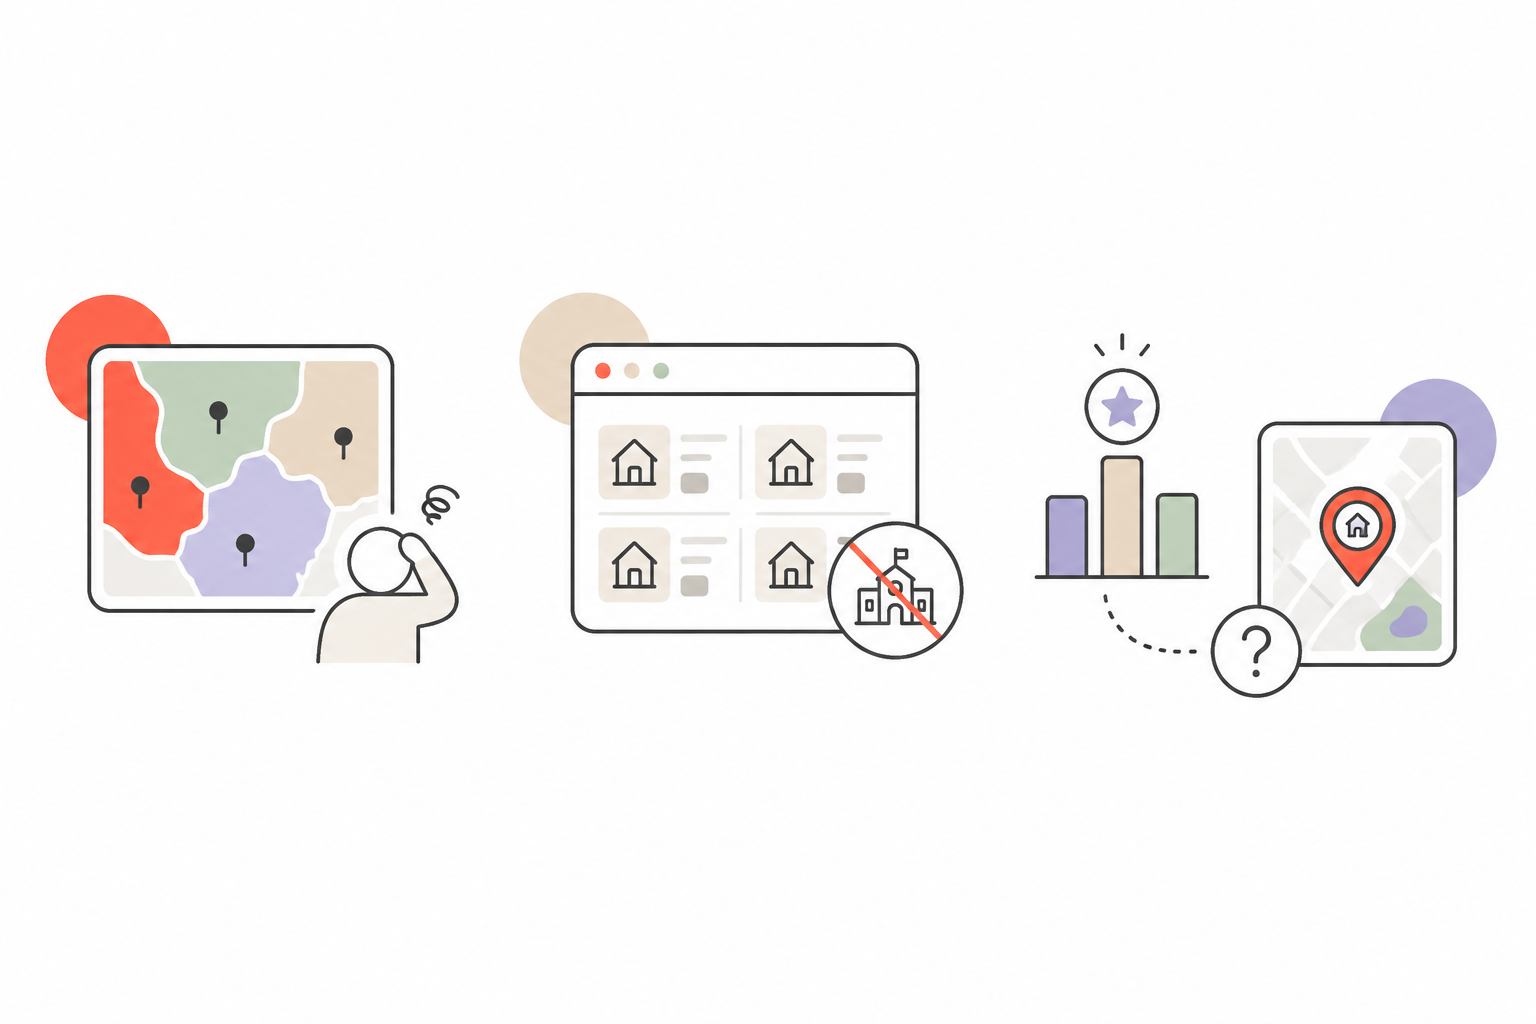
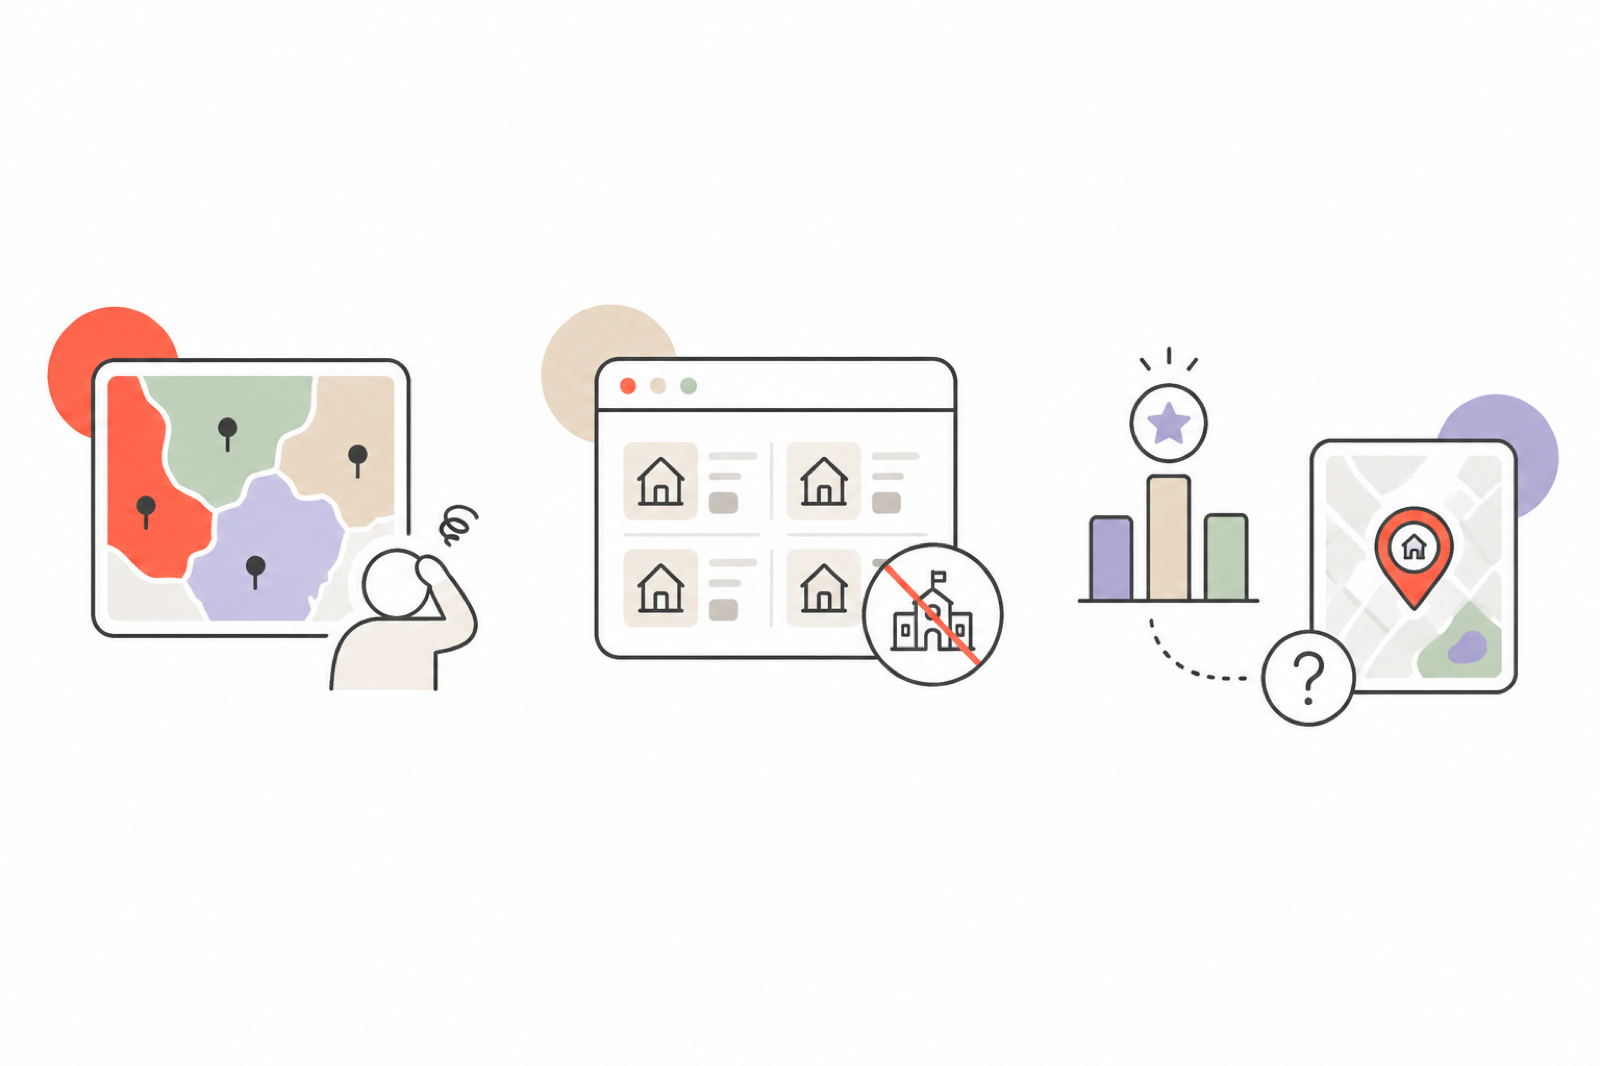
Changes to the design storytelling

diff --git a/about.html b/about.html
@@ -113,63 +113,82 @@
       <div class="about-section-head">
         <span class="idx-label">Explore my case studies</span>
       </div>
-      <div class="hcp-deck about-hcp-deck">
-        <div class="hcp-deck-cards">
+      <div class="about-cs-scroll">
+        <div class="about-cs-track">
 
-          <div class="hcp-slide pos-mid" data-href="telo-case-study.html">
+          <a class="about-cs-card" href="telo-case-study.html">
             <div class="hcp-slide-img">
               <img src="/1. Collapsed state.png" alt="Telo">
               <div class="hcp-img-overlay"><span class="hcp-glass-btn"><svg width="11" height="11" viewBox="0 0 24 24" fill="none" stroke="currentColor" stroke-width="2.5" stroke-linecap="round" stroke-linejoin="round"><path d="M5 12h14M12 5l7 7-7 7"/></svg>View case study</span></div>
             </div>
             <div class="hcp-slide-info">
-              <div class="hcp-slide-tags">
-                <span class="hcp-slide-tag">B2B SaaS</span>
-                <span class="hcp-slide-tag hcp-slide-tag--muted">2026</span>
-              </div>
+              <div class="hcp-slide-tags"><span class="hcp-slide-tag">B2B SaaS</span><span class="hcp-slide-tag hcp-slide-tag--muted">2026</span></div>
               <h3 class="hcp-slide-title">Telo</h3>
               <p class="hcp-slide-desc">Designed from scratch - a Slack-native alert that tells SaaS founders whether a metric drop is real and what to do next.</p>
             </div>
-          </div>
+          </a>
 
-          <div class="hcp-slide pos-front" data-href="schoolmap-case-study.html">
+          <a class="about-cs-card" href="schoolmap-case-study.html">
             <div class="hcp-slide-img">
               <img src="/Rent-by-school-preview.png" alt="Rent by School">
               <div class="hcp-img-overlay"><span class="hcp-glass-btn"><svg width="11" height="11" viewBox="0 0 24 24" fill="none" stroke="currentColor" stroke-width="2.5" stroke-linecap="round" stroke-linejoin="round"><path d="M5 12h14M12 5l7 7-7 7"/></svg>View case study</span></div>
             </div>
             <div class="hcp-slide-info">
-              <div class="hcp-slide-tags">
-                <span class="hcp-slide-tag">Civic Tech</span>
-                <span class="hcp-slide-tag hcp-slide-tag--muted">2026</span>
-              </div>
+              <div class="hcp-slide-tags"><span class="hcp-slide-tag">Civic Tech</span><span class="hcp-slide-tag hcp-slide-tag--muted">2026</span></div>
               <h3 class="hcp-slide-title">Rent by School</h3>
               <p class="hcp-slide-desc">Designed from scratch - a platform that helps Toronto families find rentals within their chosen school's catchment area faster.</p>
             </div>
-          </div>
+          </a>
 
-          <div class="hcp-slide pos-back" data-href="ambassador-case-study.html">
-            <div class="hcp-slide-img" style="background:#ffffff;display:flex;align-items:center;justify-content:center;padding:16px">
+          <a class="about-cs-card" href="ambassador-case-study.html">
+            <div class="hcp-slide-img" style="background:#fff;display:flex;align-items:center;justify-content:center;padding:16px">
               <img src="/The%20Ambassador%20Platform%20logo.svg" alt="The Ambassador Platform" style="max-width:180px;width:100%;height:auto;display:block">
               <div class="hcp-img-overlay"><span class="hcp-glass-btn"><svg width="11" height="11" viewBox="0 0 24 24" fill="none" stroke="currentColor" stroke-width="2.5" stroke-linecap="round" stroke-linejoin="round"><path d="M5 12h14M12 5l7 7-7 7"/></svg>View case study</span></div>
             </div>
             <div class="hcp-slide-info">
-              <div class="hcp-slide-tags">
-                <span class="hcp-slide-tag">EdTech</span>
-                <span class="hcp-slide-tag hcp-slide-tag--muted">2019–22</span>
-              </div>
+              <div class="hcp-slide-tags"><span class="hcp-slide-tag">EdTech</span><span class="hcp-slide-tag hcp-slide-tag--muted">2019–22</span></div>
               <h3 class="hcp-slide-title">The Ambassador Platform</h3>
               <p class="hcp-slide-desc">Owned the full design lifecycle of the platform that helps prospective students choose the right institution, lifting conversion from 8% to 14%.</p>
             </div>
-          </div>
+          </a>
 
-        </div>
+          <!-- duplicates for seamless loop -->
+          <a class="about-cs-card" href="telo-case-study.html" aria-hidden="true" tabindex="-1">
+            <div class="hcp-slide-img">
+              <img src="/1. Collapsed state.png" alt="" aria-hidden="true">
+              <div class="hcp-img-overlay"><span class="hcp-glass-btn"><svg width="11" height="11" viewBox="0 0 24 24" fill="none" stroke="currentColor" stroke-width="2.5" stroke-linecap="round" stroke-linejoin="round"><path d="M5 12h14M12 5l7 7-7 7"/></svg>View case study</span></div>
+            </div>
+            <div class="hcp-slide-info">
+              <div class="hcp-slide-tags"><span class="hcp-slide-tag">B2B SaaS</span><span class="hcp-slide-tag hcp-slide-tag--muted">2026</span></div>
+              <h3 class="hcp-slide-title">Telo</h3>
+              <p class="hcp-slide-desc">Designed from scratch - a Slack-native alert that tells SaaS founders whether a metric drop is real and what to do next.</p>
+            </div>
+          </a>
 
-        <div class="hcp-nav">
-          <button class="hcp-nav-btn" onclick="aboutHcpPrev()" aria-label="Previous case study">
-            <svg width="10" height="10" viewBox="0 0 24 24" fill="none" stroke="currentColor" stroke-width="2.5" stroke-linecap="round" stroke-linejoin="round"><path d="M15 18l-6-6 6-6"/></svg>
-          </button>
-          <button class="hcp-nav-btn" onclick="aboutHcpNext()" aria-label="Next case study">
-            <svg width="10" height="10" viewBox="0 0 24 24" fill="none" stroke="currentColor" stroke-width="2.5" stroke-linecap="round" stroke-linejoin="round"><path d="M9 18l6-6-6-6"/></svg>
-          </button>
+          <a class="about-cs-card" href="schoolmap-case-study.html" aria-hidden="true" tabindex="-1">
+            <div class="hcp-slide-img">
+              <img src="/Rent-by-school-preview.png" alt="" aria-hidden="true">
+              <div class="hcp-img-overlay"><span class="hcp-glass-btn"><svg width="11" height="11" viewBox="0 0 24 24" fill="none" stroke="currentColor" stroke-width="2.5" stroke-linecap="round" stroke-linejoin="round"><path d="M5 12h14M12 5l7 7-7 7"/></svg>View case study</span></div>
+            </div>
+            <div class="hcp-slide-info">
+              <div class="hcp-slide-tags"><span class="hcp-slide-tag">Civic Tech</span><span class="hcp-slide-tag hcp-slide-tag--muted">2026</span></div>
+              <h3 class="hcp-slide-title">Rent by School</h3>
+              <p class="hcp-slide-desc">Designed from scratch - a platform that helps Toronto families find rentals within their chosen school's catchment area faster.</p>
+            </div>
+          </a>
+
+          <a class="about-cs-card" href="ambassador-case-study.html" aria-hidden="true" tabindex="-1">
+            <div class="hcp-slide-img" style="background:#fff;display:flex;align-items:center;justify-content:center;padding:16px">
+              <img src="/The%20Ambassador%20Platform%20logo.svg" alt="" aria-hidden="true" style="max-width:180px;width:100%;height:auto;display:block">
+              <div class="hcp-img-overlay"><span class="hcp-glass-btn"><svg width="11" height="11" viewBox="0 0 24 24" fill="none" stroke="currentColor" stroke-width="2.5" stroke-linecap="round" stroke-linejoin="round"><path d="M5 12h14M12 5l7 7-7 7"/></svg>View case study</span></div>
+            </div>
+            <div class="hcp-slide-info">
+              <div class="hcp-slide-tags"><span class="hcp-slide-tag">EdTech</span><span class="hcp-slide-tag hcp-slide-tag--muted">2019–22</span></div>
+              <h3 class="hcp-slide-title">The Ambassador Platform</h3>
+              <p class="hcp-slide-desc">Owned the full design lifecycle of the platform that helps prospective students choose the right institution, lifting conversion from 8% to 14%.</p>
+            </div>
+          </a>
+
         </div>
       </div>
     </section>
@@ -300,33 +319,6 @@
       track.style.animation='none';
       track.offsetHeight;
       track.style.animation='';
-    });
-  });
-})();
-// About page case study deck
-(function(){
-  var slides = Array.from(document.querySelectorAll('.about-hcp-deck .hcp-slide'));
-  if(!slides.length) return;
-  var pos = ['pos-front','pos-mid','pos-back'];
-  var order = [0,1,2];
-
-  function shuffle(dir){
-    slides.forEach(function(s,i){ s.classList.remove(pos[order[i]]); });
-    order = order.map(function(p){ return dir === -1 ? (p + 1) % 3 : (p + 2) % 3; });
-    slides.forEach(function(s,i){ s.classList.add(pos[order[i]]); });
-  }
-  window.aboutHcpNext = function(){ shuffle(1); };
-  window.aboutHcpPrev = function(){ shuffle(-1); };
-
-  var deck = document.querySelector('.about-hcp-deck');
-  var timer = setInterval(function(){ shuffle(1); }, 3500);
-  deck.addEventListener('mouseenter', function(){ clearInterval(timer); });
-  deck.addEventListener('mouseleave', function(){ timer = setInterval(function(){ shuffle(1); }, 3500); });
-
-  slides.forEach(function(s){
-    s.addEventListener('click', function(){
-      if(!s.classList.contains('pos-front')) return;
-      window.location.href = s.dataset.href;
     });
   });
 })();

diff --git a/schoolmap-case-study.html b/schoolmap-case-study.html
@@ -604,23 +604,6 @@ footer{padding:22px 48px;display:flex;justify-content:space-between;align-items:
     <div class="eyebrow"><span class="n">3</span> The user</div>
     <h2>The relocating parent,<br><em>not the local.</em></h2>
 
-    <div style="background:#F5F5F5;border-radius:14px;padding:28px 32px;margin-bottom:36px;max-width:720px">
-      <div style="font-size:0.75rem;letter-spacing:.1em;text-transform:uppercase;color:var(--accent);font-weight:600;margin-bottom:16px">Executive Summary - The User</div>
-      <div style="display:flex;flex-direction:column;gap:14px">
-        <div style="display:flex;gap:12px">
-          <span style="font-size:0.75rem;font-weight:600;color:#3F3F47;text-transform:uppercase;letter-spacing:.08em;min-width:90px;padding-top:2px">Profile</span>
-          <p style="font-size:1rem;color:#71717C;margin:0;line-height:1.6">Michelle, 34 - relocating internationally with one school-age child. Time-poor, unfamiliar with Toronto's geography, high-stakes decision.</p>
-        </div>
-        <div style="display:flex;gap:12px">
-          <span style="font-size:0.75rem;font-weight:600;color:#3F3F47;text-transform:uppercase;letter-spacing:.08em;min-width:90px;padding-top:2px">Primary Need</span>
-          <p style="font-size:1rem;color:#71717C;margin:0;line-height:1.6">Find a rental inside the catchment of a high-quality Toronto school before signing a lease.</p>
-        </div>
-        <div style="border-top:1px solid var(--line);padding-top:14px;display:flex;gap:12px">
-          <span style="font-size:0.75rem;font-weight:600;color:#3F3F47;text-transform:uppercase;letter-spacing:.08em;min-width:90px;padding-top:2px">Key Driver</span>
-          <p style="font-size:1rem;color:#71717C;margin:0;line-height:1.6"><strong style="color:#3F3F47">School selection precedes</strong> neighbourhood preference and property features. Where, then what.</p>
-        </div>
-      </div>
-    </div>
     <div class="cards-2" style="margin-top:32px">
       <div class="info-card">
         <div class="info-card-label">Who they are</div>
@@ -686,7 +669,7 @@ footer{padding:22px 48px;display:flex;justify-content:space-between;align-items:
       </div>
     </div>
 
-    <p style="max-width:680px;margin-top:32px">After a quick chat with several parents I heard that they lean towards "controlling the filter options by themselves" more than having the ready-to-use design decisions by AI, making my choice — start with a familiar map-first approach.</p>
+    <p style="max-width:680px;margin-top:32px">After a quick chat with several parents I heard that they lean towards "controlling the search by themselves," more than having the ready-to-use design decisions by AI, making my choice — start with a familiar map-first approach.</p>
 
     <div style="margin-top:36px;padding:24px 28px;background:var(--bg2);border-radius:12px;border:1px solid var(--line)">
       <h3 style="margin-bottom:16px">Two concepts taken forward</h3>

diff --git a/styles.css b/styles.css
@@ -828,17 +828,11 @@ font-size:clamp(2.125rem,4.7vw,3.85rem);
   transition:transform .3s cubic-bezier(.25,.46,.45,.94),box-shadow .3s;
 }
 .about-cs-card:hover{transform:translateY(-6px);box-shadow:0 20px 52px rgba(0,0,0,.13)}
-.about-cs-card-top{padding:20px 20px 16px;display:flex;flex-direction:column;gap:6px}
-.about-cs-card-tag{font-size:0.6875rem;font-weight:700;letter-spacing:.08em;text-transform:uppercase;color:var(--color-stone)}
-.about-cs-card-title{font-size:1.375rem;font-weight:700;color:var(--color-ink);letter-spacing:-.02em;margin:0;line-height:1.15}
-.about-cs-card-desc{font-size:0.9375rem;color:var(--color-stone);line-height:1.55;margin:0}
-.about-cs-card-img{overflow:hidden}
-.about-cs-card-img img{width:100%;height:190px;object-fit:cover;object-position:center top;display:block;transition:transform .4s ease}
-.about-cs-card:hover .about-cs-card-img img{transform:scale(1.04)}
-.about-cs-card-img.logo-bg{background:#fff;display:flex;align-items:center;justify-content:center;padding:28px;min-height:190px}
-.about-cs-card-img.logo-bg img{width:180px;height:auto;object-fit:contain}
-.about-cs-card-foot{padding:14px 20px;border-top:1px solid var(--color-linen);display:flex;justify-content:space-between;align-items:center;font-size:0.875rem;color:var(--color-stone);margin-top:auto}
-.about-cs-card-foot-link{display:flex;align-items:center;gap:5px;color:var(--color-ink);font-weight:600;font-size:0.875rem}
+.about-cs-card:hover .hcp-img-overlay{background:rgba(26,26,24,.45)}
+.about-cs-card:hover .hcp-img-overlay .hcp-glass-btn{opacity:1;transform:translateY(0)}
+.about-cs-card:hover .hcp-slide-img img{transform:scale(1.04)}
+.about-cs-card .hcp-slide-img{border-radius:0}
+.about-cs-card .hcp-slide-info{padding:16px 20px 20px}
 
 /* ─── BOTTOM NAV ─── */
 .bottom-nav{display:none}